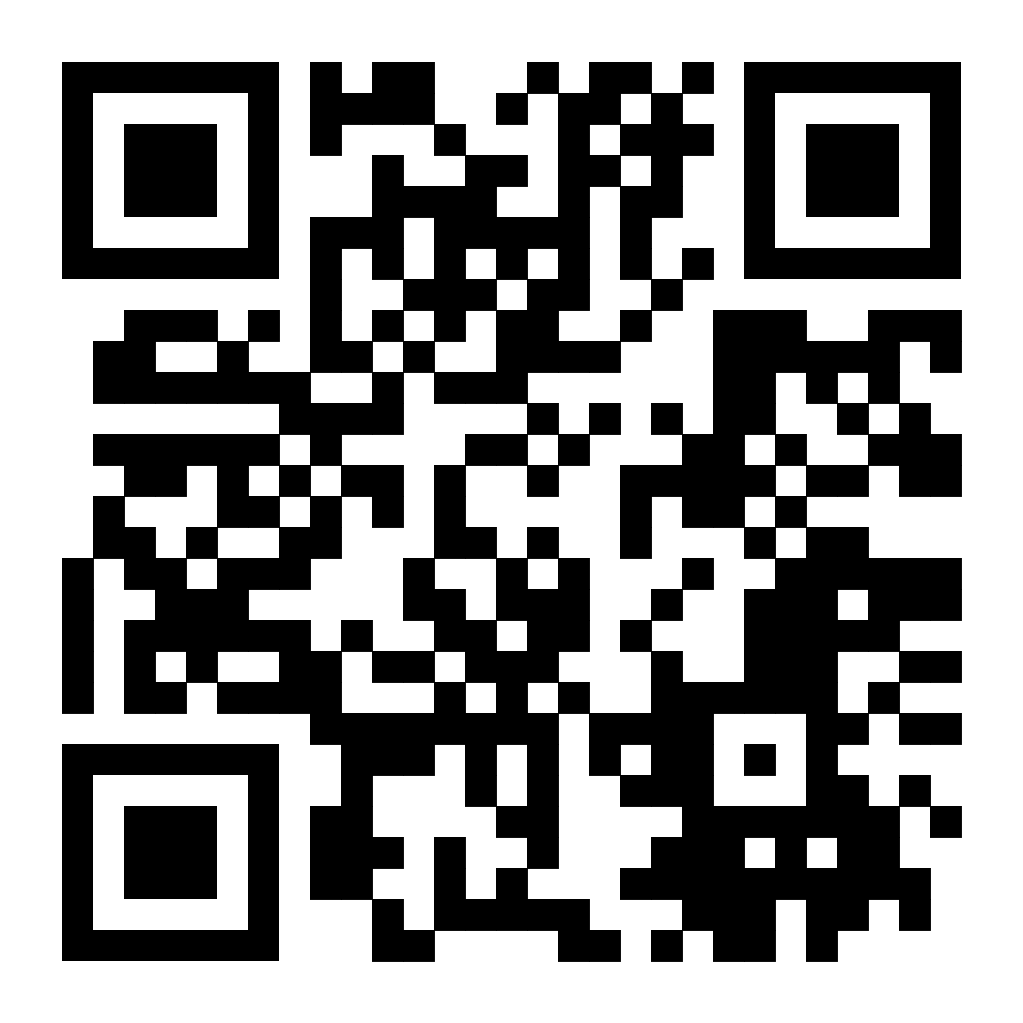
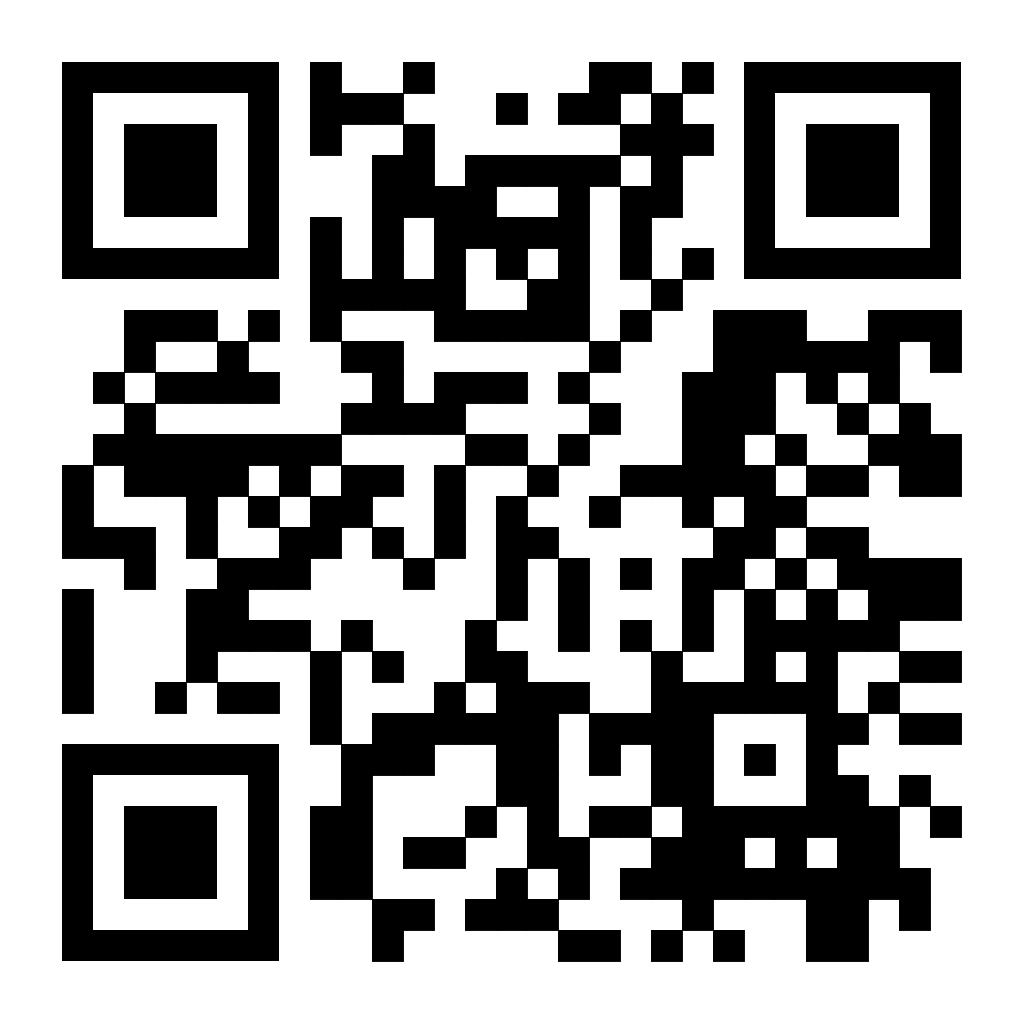
Add files via upload

diff --git a/styles.css b/styles.css
@@ -1,10 +1,10 @@
 :root{
-    --fundo-secundario:#00ff2a;
-    --texto-primario:#E51E00;
-    --linhas-principais:#278219;
-    --cor-de-fundo:#ffffff;
-    --texto-secundario:#000000;
-    --fonte-principal: 'Inter';
+    --fundo-secundario:#807e2a;
+    --texto-primario:#740005;
+    --linhas-principais:#444801;
+    --cor-de-fundo:#eadac0;
+    --texto-secundario:#3f1503;
+    --fonte-principal: 'Italiana';
 }
 
 header {
@@ -22,31 +22,30 @@ body{
 }
 
 .chamada-divulgação {
-    font-size: 50px;
-    
-    
+    font-size: 50px; 
 }
 
 .chamada-texto{
     font-size: 20px;
     color: var(--texto-secundario);
     margin-right: 5%;
-    
 }
 
 .chamada {
-    background-image: url("img/ambiente.jpg");
+    background-image: url("img/jantar vino e vita.jpg");
     background-repeat: no-repeat;
     background-size: contain;
     background-color: var(--fundo-secundario);
     padding-bottom: 80px;
     padding-top: 80px;
     padding-right: 20px;
+    padding-left: 175px;
     margin-top: 5%;
     display: grid;
     grid-template-columns: 50%;
     justify-content: right;
     height: 25vh;
+    font-size: 20px;
 }
 
 .categoria {
@@ -64,7 +63,7 @@ body{
 }
 
 .categoria-texto{
-    font-size: 20px;
+    font-size: 25px;
     color: var(--texto-secundario);
     margin-right: 5%;
 }
@@ -73,6 +72,7 @@ body{
     background-image: url("img/Untitled.png");
     background-repeat: no-repeat;
     background-size: contain;
+    background-position: 20%;
     background-color: var(--fundo-secundario);
     padding-bottom: 80px;
     padding-top: 60px;
@@ -82,6 +82,7 @@ body{
     grid-template-columns: 50%;
     justify-content: right;
     height: 25vh;
+    font-size: 50px;
 }
 
 .grupo-divulgação {
@@ -90,12 +91,21 @@ body{
 }
 
 .grupo-botao{
-    font-size: 20px;
-    color: var(--texto-secundario);
+    font-size: 30px;
+    color: var(--cor-de-fundo);
     margin-right: 5%;
+    text-decoration: none;
+    background-color: var(--texto-primario);
+    border-radius: 5px;
+    padding: 1em;
+    display: block;
 }
 
 .conjunto {
+    background-image: url("img/logo.jpeg");
+    background-repeat: no-repeat;
+    background-size: 40%;
+    background-position: 85%;
     padding-bottom: 80px;
     padding-top: 60px;
     padding-left: 20px;
@@ -104,6 +114,7 @@ body{
     grid-template-columns: 50%;
     justify-content: left;
     height: 25vh;
+    font-size: 30px;
 }
 
 .conjunto-divulgação {
@@ -111,7 +122,7 @@ body{
 }
 
 .conjunto-texto{
-    font-size: 20px;
+    font-size: 25px;
     color: var(--texto-secundario);
     margin-right: 5%;
 }

diff --git a/index.html b/index.html
@@ -4,28 +4,31 @@
     <meta charset="UTF-8">
     <meta name="viewport" content="width=device-width, initial-scale=1.0">
     <link rel="stylesheet" href="styles.css" />
-    <title>Vino e Vita</title>
+    <link rel="preconnect" href="https://fonts.googleapis.com">
+    <link rel="preconnect" href="https://fonts.gstatic.com" crossorigin>
+    <link href="https://fonts.googleapis.com/css2?family=Inter:ital,opsz,wght@0,14..32,100..900;1,14..32,100..900&family=Italiana&display=swap" rel="stylesheet">
+    <title>Vino & Vita</title>
 </head>
 <body>
-    <header>Vino e Vita</header>
+    <header>Vino & Vita</header>
     <section class="chamada">
         <div>
-            <h1 class="chamada-divugalção">Vino e Vita o mais novo restaurante de comida italiana em São Paulo.</h1>
-            <p class="chamada-texto">O Vino e Vita possui uma proposta mais jovem e moderna no cardápio, oferecendo diversas opções para serem compartilhadas à mesa. Os pratos representam diferentes regiões da Itália, com uma ampla seleção de massas frescas, risotos, carnes, peixes, paninis e sobremesas.</p>
+            <h1 class="chamada-divugalção">Vino & Vita, sinta os sabores da Itália em sua vida.</h1>
+            <p class="chamada-texto">O Vino & Vita possui uma proposta mais jovem e moderna no cardápio, oferecendo diversas opções para serem compartilhadas à mesa. Os pratos representam diferentes regiões da Itália, com uma ampla seleção de massas frescas, risotos, carnes, peixes, paninis e sobremesas.</p>
         </div>
     </section>
 
     <section class="categoria">
         <div>
             <h1 class="categoria-divulgação">Nossa Localização</h1>
-            <p class="categoria-texto">Localizado na Rua Graúna, 65, em Moema, nosso restaurante oferece um ambiente acolhedor onde você pode relaxar e desfrutar de momentos memoráveis com amigos e familiares.</p>
+            <p class="categoria-texto">Localizado na R. Treze de Maio, 634, no bairro do Bexiga, São Paulo. Nosso restaurante oferece um ambiente acolhedor onde você pode relaxar e desfrutar de momentos memoráveis com amigos e familiares.</p>
         </div>
     </section>
 
     <section class="grupo">
         <div>
             <h1 class="grupo-divugalção">Cardápio</h1>
-            <a href="https://search.app/59xRstmaH52P6BrY8" class="grupo-botao">Acesse nosso menu</a>
+            <a href="https://pdf.ac/3ngSK1" class="grupo-botao">Acesse nosso menu</a>
         </div>
     </section>
 
